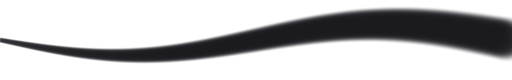
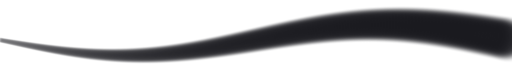
#547: кривые подачи были почти плоскими — тумблеру нечего было выключать
Илья: «свитч нажим меняет плотность кажется не делает нифига». Провод оказался
цел — токен пишется верно (brush:soft-round@1 против :flat), и на мягкой кисти
разница в метке видна. Плоскими были сами кривые: FLOW_EARLY держалась в пределах
15% от полной подачи на всей рабочей половине диапазона, FLOW_COVERING — в
пределах 10%. То есть четыре кисти из шести и без тумблера клали почти ровно,
и выключать было нечего.

Кривая, эффекта которой не видно — это не мягкая кривая, а отсутствующая.
Расширены обе: FLOW_EARLY с [0.35 … 0.85 на 0.4] до [0.12 … 0.6 на 0.5],
FLOW_COVERING с [0.6 … 0.9 на 0.35] до [0.3 … 0.75 на 0.5]. Тушевая не тронута —
у неё подача обязана быть плоской, это её характер.

Образцы мазков перепечены: они рисуются движком, значит обязаны поехать за
кривыми, иначе картинка в списке начнёт врать.

Claude-Session: https://claude.ai/code/session_01F35jbV9WXjHKUvZrCGZcEs

Changed region(s): [[0.0, 0.25, 0.625, 0.8]]

diff --git a/apps/web/src/engine/src/digitalBrushPresets.ts b/apps/web/src/engine/src/digitalBrushPresets.ts
@@ -172,9 +172,18 @@ const SIZE_FULL: BrushCurve = [[0, 0.08], [0.5, 0.55], [1, 1]]
  *  direction (#532). */
 const SIZE_KNEE: BrushCurve = [[0, 0.25], [0.35, 0.42], [0.75, 0.62], [1, 1]]
 
-/** Flow that comes on early and saturates: a brush loaded with paint does not
- *  hold back until the hand presses hard. */
-const FLOW_EARLY: BrushCurve = [[0, 0.35], [0.4, 0.85], [1, 1]]
+/** Flow that comes on early but keeps climbing: a brush loaded with paint does
+ *  not hold back until the hand presses hard, and it does not stop answering it
+ *  either.
+ *
+ *  Widened from [[0, 0.35], [0.4, 0.85], [1, 1]], and the reason is a report
+ *  rather than taste: at that shape the density was within 15% of full over the
+ *  whole usable half of the range, so pressing harder changed nothing anyone
+ *  could see — and the setting that turns the behaviour off looked broken
+ *  because there was nothing to turn off ("свитч кажется не делает нифига",
+ *  Ilya). A curve whose effect is invisible is not a gentle curve, it is a
+ *  missing one. */
+const FLOW_EARLY: BrushCurve = [[0, 0.12], [0.5, 0.6], [1, 1]]
 
 /** Flow that tracks pressure nearly linearly — for a brush meant to build tone
  *  in passes rather than cover in one. */
@@ -183,10 +192,12 @@ const FLOW_LINEAR: BrushCurve = [[0, 0.12], [1, 1]]
 /** Ink does not thin out: it is either laid down or it is not. */
 const FLOW_FLAT: BrushCurve = [[0, 0.9], [0.25, 1], [1, 1]]
 
-/** Covering, but not indifferent to the hand: a painting brush lays nearly all
- *  its paint from a light touch onward, and the little that is left to pressure
- *  is what keeps a stroke from looking printed. */
-const FLOW_COVERING: BrushCurve = [[0, 0.6], [0.35, 0.9], [1, 1]]
+/** Covering, but not indifferent to the hand. Still the flattest of the three
+ *  that answer pressure at all — a paint brush should reach a workable density
+ *  early, or laying a flat mass turns into an exercise in pressing evenly — but
+ *  it keeps enough range that the hand is visible in the mark, and that the
+ *  pressure-to-density setting has something to switch off. */
+const FLOW_COVERING: BrushCurve = [[0, 0.3], [0.5, 0.75], [1, 1]]
 
 /** The shipped set (ADR 013 §7 — frozen and versioned; there is deliberately no
  *  way for a user to edit these, because a stroke's preset token is resolved by
